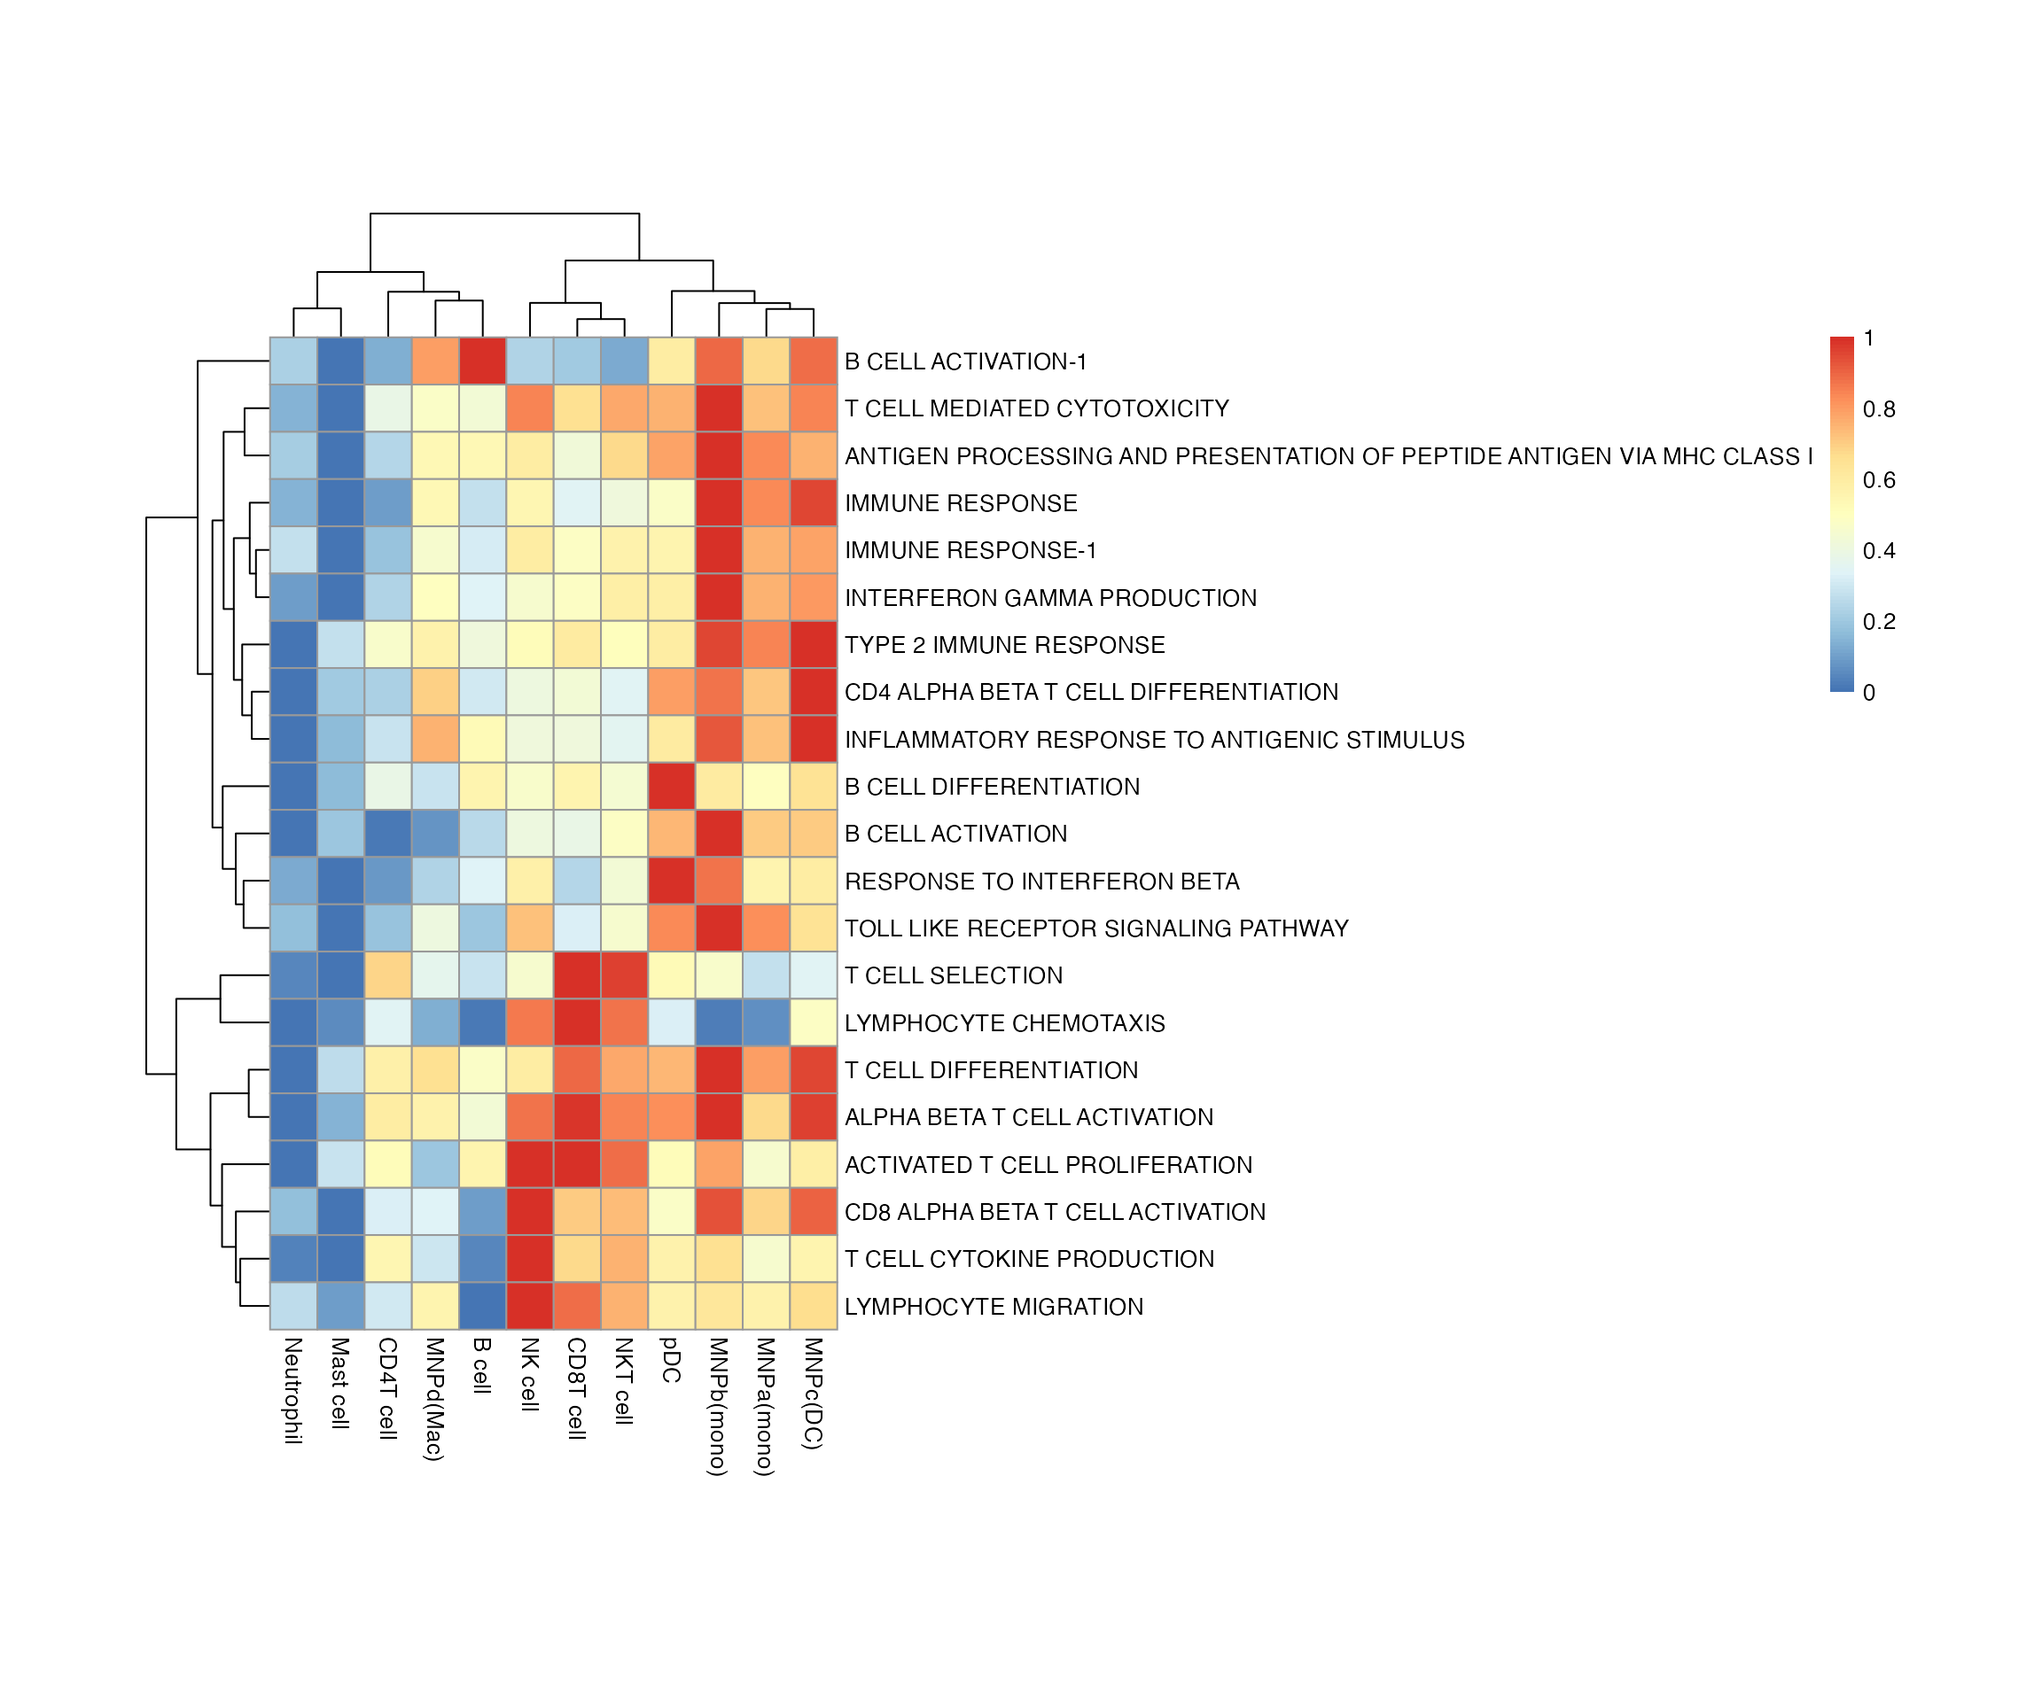
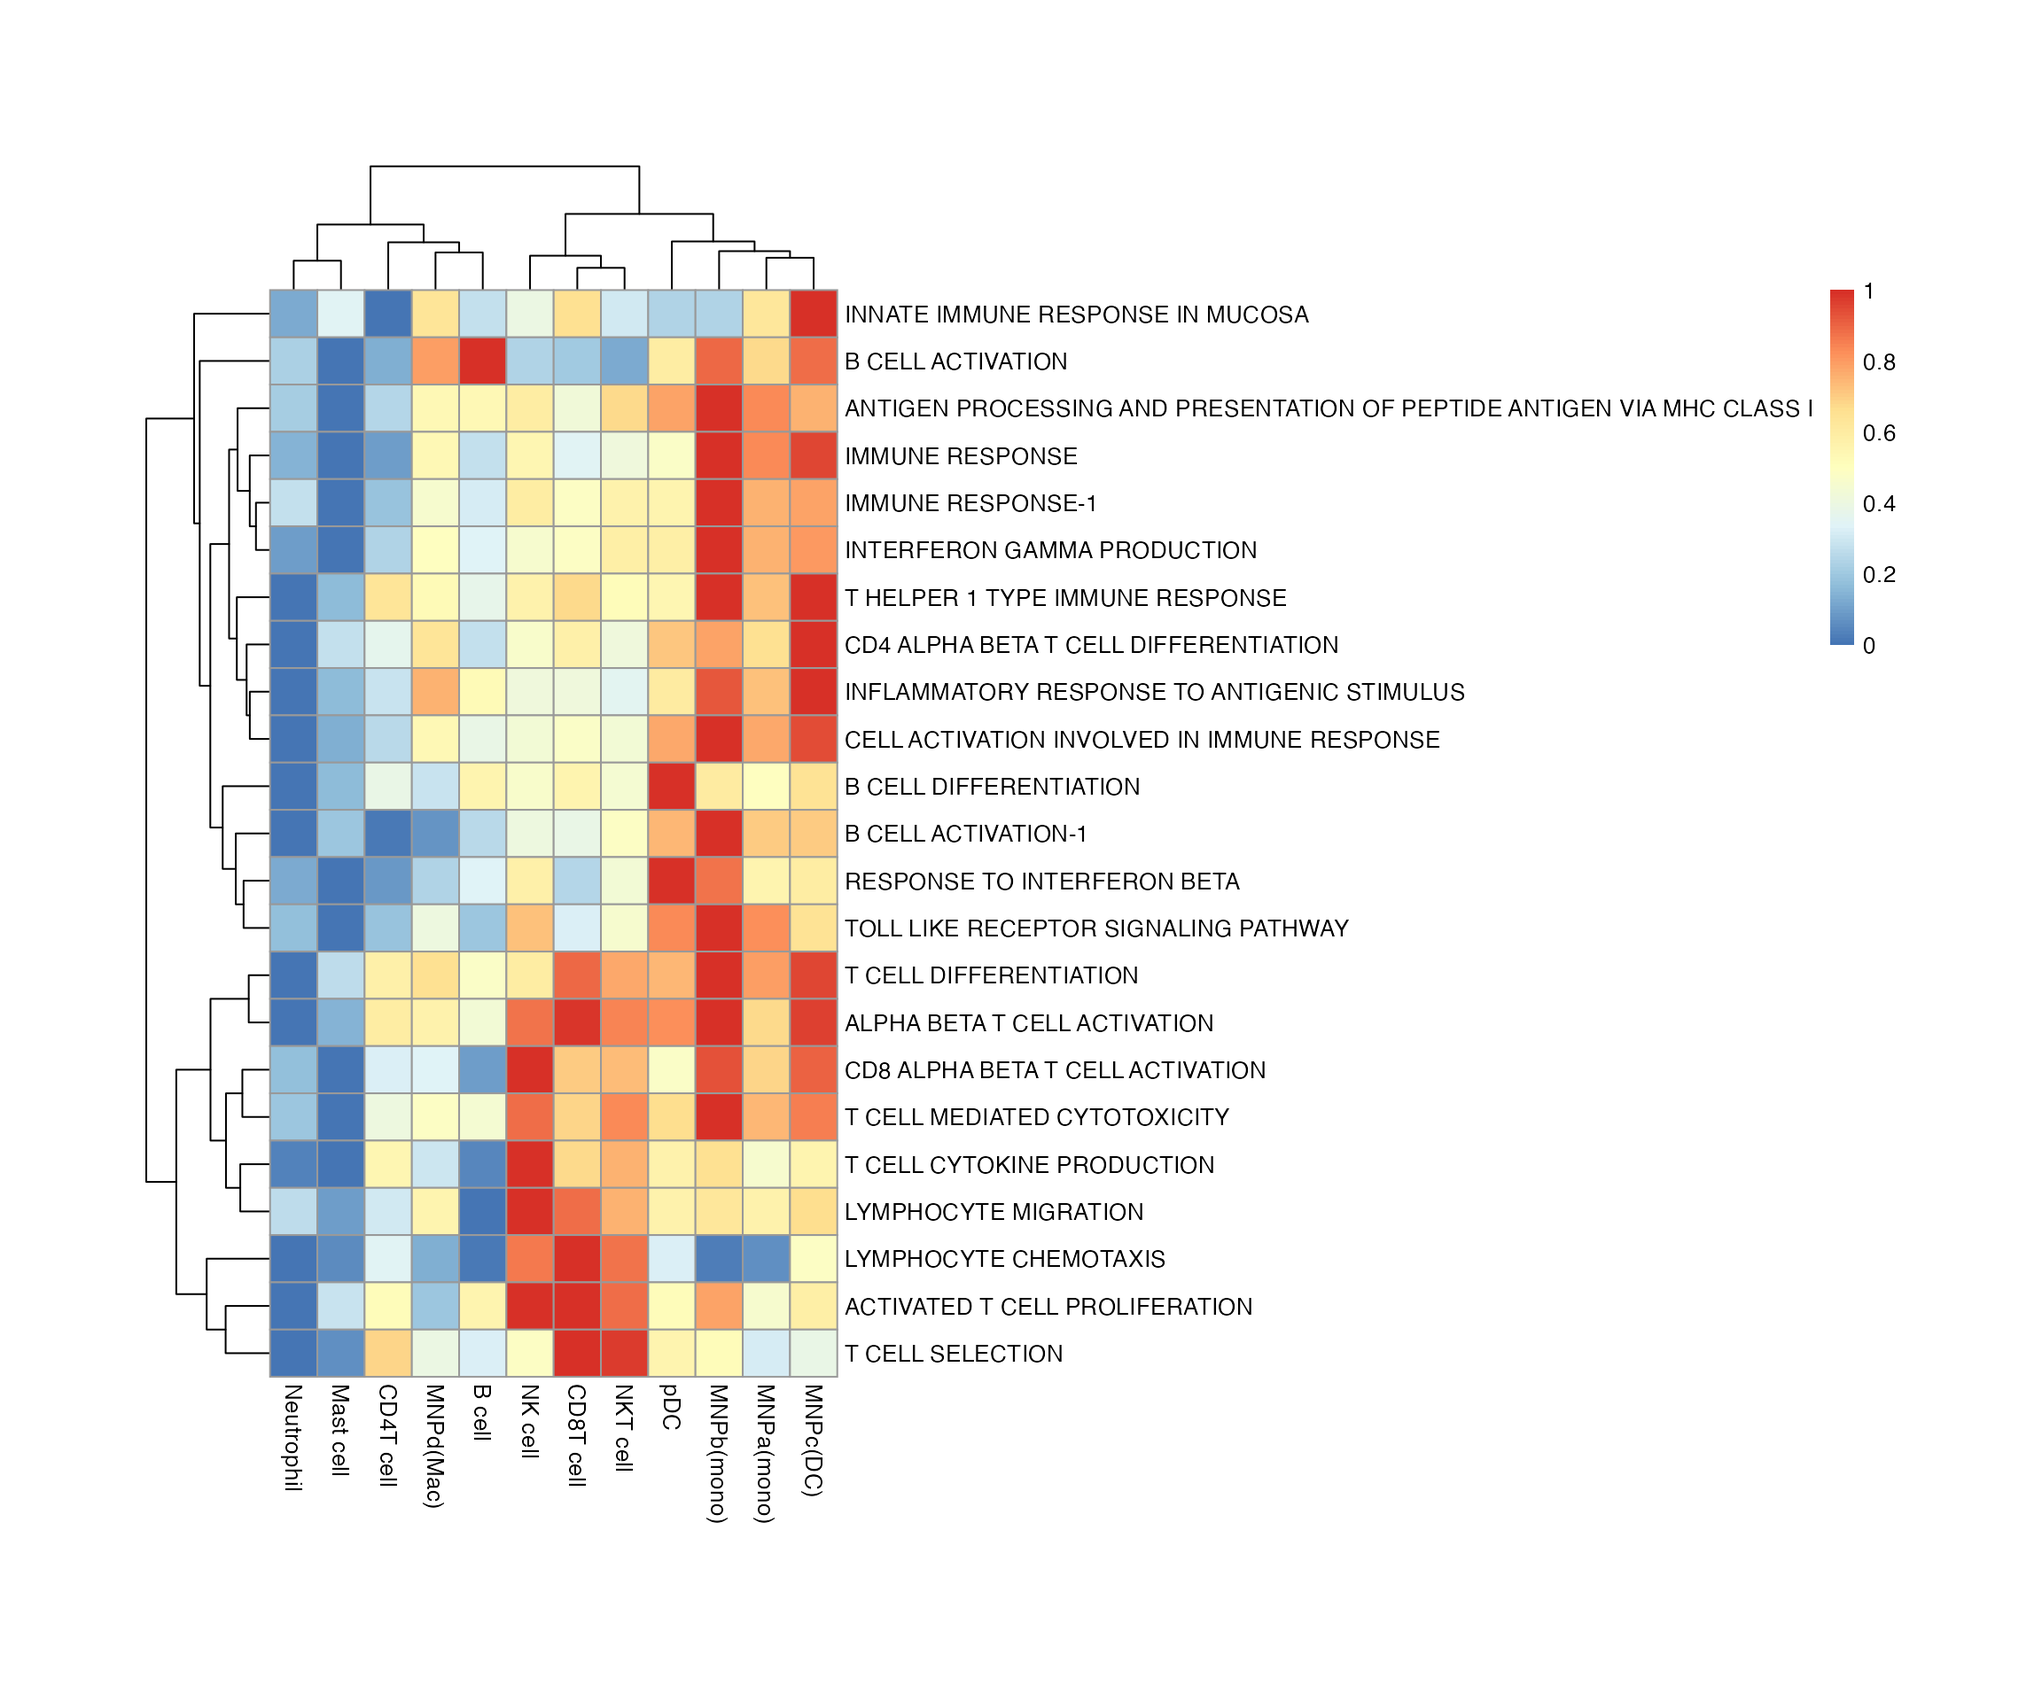
Built site for bowerbird: 0.0.2@e41fcba

diff --git a/articles/bowerbird_vignette.html b/articles/bowerbird_vignette.html
@@ -83,7 +83,7 @@
 
     
     
-<p><a href="https://github.com/clatworthylab/bowerbird/actions/workflows/r.yml"><img src="https://github.com/clatworthylab/bowerbird/actions/workflows/r.yml/badge.svg?branch=master" alt="R"></a> <a href="https://github.com/clatworthylab/bowerbird/actions/workflows/vignette.yml"><img src="https://github.com/clatworthylab/bowerbird/actions/workflows/vignette.yml/badge.svg" alt="vignette"></a></p>
+<p><a href="https://github.com/clatworthylab/bowerbird/actions/workflows/r.yml"><img src="https://github.com/clatworthylab/bowerbird/actions/workflows/r.yml/badge.svg?branch=master" alt="R"></a> <a href="https://github.com/clatworthylab/bowerbird/actions/workflows/vignette.yml"><img src="https://github.com/clatworthylab/bowerbird/actions/workflows/vignette.yml/badge.svg" alt="vignette"></a> <a href="https://codecov.io/gh/clatworthylab/bowerbird"><img src="https://codecov.io/gh/clatworthylab/bowerbird/branch/master/graph/badge.svg?token=NPXokMhnc2" alt="codecov"></a></p>
 <div id="bowerbird" class="section level1">
 <h1 class="hasAnchor">
 <a href="#bowerbird" class="anchor"></a>bowerbird</h1>
@@ -160,12 +160,12 @@
 <span class="va">bwr</span> <span class="op">&lt;-</span> <span class="fu"><a href="../reference/snn_graph.html">snn_graph</a></span><span class="op">(</span><span class="va">bwr</span><span class="op">)</span>
 <span class="va">bwr</span> <span class="op">&lt;-</span> <span class="fu"><a href="../reference/find_clusters.html">find_clusters</a></span><span class="op">(</span><span class="va">bwr</span><span class="op">)</span>
 <span class="va">bwr</span> <span class="op">&lt;-</span> <span class="fu">summarize_clusters</span><span class="op">(</span><span class="va">bwr</span><span class="op">)</span>
-<span class="co">#&gt; Downloading udpipe model from https://raw.githubusercontent.com/jwijffels/udpipe.models.ud.2.5/master/inst/udpipe-ud-2.5-191206/english-ewt-ud-2.5-191206.udpipe to /var/folders/24/8k48jl6d249_n_qfxwsl6xvm0000gn/T//Rtmpn5hu8z/english-ewt-ud-2.5-191206.udpipe</span>
+<span class="co">#&gt; Downloading udpipe model from https://raw.githubusercontent.com/jwijffels/udpipe.models.ud.2.5/master/inst/udpipe-ud-2.5-191206/english-ewt-ud-2.5-191206.udpipe to /var/folders/24/8k48jl6d249_n_qfxwsl6xvm0000gn/T//RtmpyFfT7D/english-ewt-ud-2.5-191206.udpipe</span>
 <span class="co">#&gt;  - This model has been trained on version 2.5 of data from https://universaldependencies.org</span>
 <span class="co">#&gt;  - The model is distributed under the CC-BY-SA-NC license: https://creativecommons.org/licenses/by-nc-sa/4.0</span>
 <span class="co">#&gt;  - Visit https://github.com/jwijffels/udpipe.models.ud.2.5 for model license details.</span>
 <span class="co">#&gt;  - For a list of all models and their licenses (most models you can download with this package have either a CC-BY-SA or a CC-BY-SA-NC license) read the documentation at ?udpipe_download_model. For building your own models: visit the documentation by typing vignette('udpipe-train', package = 'udpipe')</span>
-<span class="co">#&gt; Downloading finished, model stored at '/var/folders/24/8k48jl6d249_n_qfxwsl6xvm0000gn/T//Rtmpn5hu8z/english-ewt-ud-2.5-191206.udpipe'</span></code></pre></div>
+<span class="co">#&gt; Downloading finished, model stored at '/var/folders/24/8k48jl6d249_n_qfxwsl6xvm0000gn/T//RtmpyFfT7D/english-ewt-ud-2.5-191206.udpipe'</span></code></pre></div>
 <p>Or extracting from <code>msigdbr</code>.</p>
 <div class="sourceCode" id="cb7"><pre class="downlit sourceCode r">
 <code class="sourceCode R"><span class="kw"><a href="https://rdrr.io/r/base/library.html">library</a></span><span class="op">(</span><span class="va"><a href="https://igordot.github.io/msigdbr/">msigdbr</a></span><span class="op">)</span>
@@ -181,52 +181,54 @@
 <span class="va">bwr</span> <span class="op">&lt;-</span> <span class="fu"><a href="../reference/snn_graph.html">snn_graph</a></span><span class="op">(</span><span class="va">bwr</span><span class="op">)</span>
 <span class="va">bwr</span> <span class="op">&lt;-</span> <span class="fu"><a href="../reference/find_clusters.html">find_clusters</a></span><span class="op">(</span><span class="va">bwr</span><span class="op">)</span>
 <span class="va">bwr</span> <span class="op">&lt;-</span> <span class="fu">summarize_clusters</span><span class="op">(</span><span class="va">bwr</span><span class="op">)</span>
-<span class="co">#&gt; Downloading udpipe model from https://raw.githubusercontent.com/jwijffels/udpipe.models.ud.2.5/master/inst/udpipe-ud-2.5-191206/english-ewt-ud-2.5-191206.udpipe to /var/folders/24/8k48jl6d249_n_qfxwsl6xvm0000gn/T//Rtmpn5hu8z/english-ewt-ud-2.5-191206.udpipe</span>
+<span class="co">#&gt; Downloading udpipe model from https://raw.githubusercontent.com/jwijffels/udpipe.models.ud.2.5/master/inst/udpipe-ud-2.5-191206/english-ewt-ud-2.5-191206.udpipe to /var/folders/24/8k48jl6d249_n_qfxwsl6xvm0000gn/T//RtmpyFfT7D/english-ewt-ud-2.5-191206.udpipe</span>
 <span class="co">#&gt;  - This model has been trained on version 2.5 of data from https://universaldependencies.org</span>
 <span class="co">#&gt;  - The model is distributed under the CC-BY-SA-NC license: https://creativecommons.org/licenses/by-nc-sa/4.0</span>
 <span class="co">#&gt;  - Visit https://github.com/jwijffels/udpipe.models.ud.2.5 for model license details.</span>
 <span class="co">#&gt;  - For a list of all models and their licenses (most models you can download with this package have either a CC-BY-SA or a CC-BY-SA-NC license) read the documentation at ?udpipe_download_model. For building your own models: visit the documentation by typing vignette('udpipe-train', package = 'udpipe')</span>
-<span class="co">#&gt; Downloading finished, model stored at '/var/folders/24/8k48jl6d249_n_qfxwsl6xvm0000gn/T//Rtmpn5hu8z/english-ewt-ud-2.5-191206.udpipe'</span></code></pre></div>
+<span class="co">#&gt; Downloading finished, model stored at '/var/folders/24/8k48jl6d249_n_qfxwsl6xvm0000gn/T//RtmpyFfT7D/english-ewt-ud-2.5-191206.udpipe'</span></code></pre></div>
 <p>So what has actually happened? Well, basically <code>bowerbird</code> has learnt which gene sets share more genes with each other, clustered them together and learnt a new summary term.</p>
 <div class="sourceCode" id="cb8"><pre class="downlit sourceCode r">
 <code class="sourceCode R"><span class="va">bwr</span>
 <span class="co">#&gt; BOWER class</span>
 <span class="co">#&gt; number of genesets:  265 </span>
 <span class="co">#&gt; genesets kNN Graph: </span>
-<span class="co">#&gt; IGRAPH c77c135 UNW- 265 843 -- </span>
+<span class="co">#&gt; IGRAPH 59fd3b3 UNW- 265 843 -- </span>
 <span class="co">#&gt; + attr: name (v/c), cluster (v/n), geneset_size (v/n), terms (v/c),</span>
 <span class="co">#&gt; | labels (v/c), weight (e/n)</span>
-<span class="co">#&gt; + edges from c77c135 (vertex names):</span>
+<span class="co">#&gt; + edges from 59fd3b3 (vertex names):</span>
 <span class="co">#&gt; [1] GOBP_ACTIVATED_T_CELL_PROLIFERATION--GOBP_CD8_POSITIVE_ALPHA_BETA_T_CELL_DIFFERENTIATION          </span>
 <span class="co">#&gt; [2] GOBP_ACTIVATED_T_CELL_PROLIFERATION--GOBP_NEGATIVE_REGULATION_OF_ACTIVATED_T_CELL_PROLIFERATION   </span>
 <span class="co">#&gt; [3] GOBP_ACTIVATED_T_CELL_PROLIFERATION--GOBP_NEGATIVE_REGULATION_OF_LYMPHOCYTE_DIFFERENTIATION       </span>
 <span class="co">#&gt; [4] GOBP_ACTIVATED_T_CELL_PROLIFERATION--GOBP_NEGATIVE_REGULATION_OF_T_CELL_RECEPTOR_SIGNALING_PATHWAY</span>
 <span class="co">#&gt; [5] GOBP_ACTIVATION_OF_IMMUNE_RESPONSE --GOBP_ACTIVATION_OF_INNATE_IMMUNE_RESPONSE                    </span>
 <span class="co">#&gt; + ... omitted several edges</span>
-<span class="co">#&gt; number of geneset clusters:  21 </span>
+<span class="co">#&gt; number of geneset clusters:  23 </span>
 <span class="co">#&gt; Core genes:</span>
 <span class="co">#&gt;  First six genes shown</span>
 <span class="co">#&gt;   IMMUNE RESPONSE-1 : AIM2 BCL10 BTRC CARD11 CARD9 CD209 ...</span>
-<span class="co">#&gt;   CD4 ALPHA BETA T CELL DIFFERENTIATION : ANXA1 ATP7A BATF BCL3 BCL6 CBFB ...</span>
-<span class="co">#&gt;   TYPE 2 IMMUNE RESPONSE : IL4 PLCL2 TLR4 IL18 IL18R1 IL4R ...</span>
 <span class="co">#&gt;   IMMUNE RESPONSE : CLNK HLA-E HLA-F IFNA2 IFNB1 IL18 ...</span>
-<span class="co">#&gt;   T CELL MEDIATED CYTOTOXICITY : HLA-A HLA-B HLA-C HLA-E HLA-F HLA-G ...</span>
-<span class="co">#&gt;   B CELL ACTIVATION : ADA BAX BCL6 BLK BTK CD74 ...</span>
+<span class="co">#&gt;   B CELL ACTIVATION-1 : ADA BAX BCL6 BLK BTK CD74 ...</span>
 <span class="co">#&gt;   RESPONSE TO INTERFERON BETA : BCL2L11 HIF1A MEF2C ADA SOS1 SOS2 ...</span>
 <span class="co">#&gt;   CD8 ALPHA BETA T CELL ACTIVATION : HLA-E GATA3 ADCYAP1 BTK C3 CCR7 ...</span>
+<span class="co">#&gt;   T CELL MEDIATED CYTOTOXICITY : HLA-A HLA-B HLA-C HLA-E HLA-F HLA-G ...</span>
+<span class="co">#&gt;   CD4 ALPHA BETA T CELL DIFFERENTIATION : ANXA1 ATP7A BATF BCL3 BCL6 CBFB ...</span>
 <span class="co">#&gt;   T CELL DIFFERENTIATION : FCGR2B FGL2 HLA-DOA LILRB2 THBS1 BMP4 ...</span>
+<span class="co">#&gt;   T HELPER 1 TYPE IMMUNE RESPONSE : BATF FOXP3 IL6 TBX21 BCL6 IL2 ...</span>
 <span class="co">#&gt;   INTERFERON GAMMA PRODUCTION : ABCB9 ACE ACTR10 ACTR1A ACTR1B AP1B1 ...</span>
 <span class="co">#&gt;   TOLL LIKE RECEPTOR SIGNALING PATHWAY : CACTIN PTPRS TICAM1 TLR3 TLR4 TLR9 ...</span>
 <span class="co">#&gt;   T CELL CYTOKINE PRODUCTION : KLRC1 LILRB1 NOD2 PTPRC EGR3 LEF1 ...</span>
 <span class="co">#&gt;   B CELL DIFFERENTIATION : IL10 TLR9 SYK ADA BCL3 C17orf99 ...</span>
 <span class="co">#&gt;   ACTIVATED T CELL PROLIFERATION : LILRB4 CD24 CD274 FYN HHLA2 ICOSLG ...</span>
-<span class="co">#&gt;   T CELL SELECTION : TOX BCL2 BATF CTSL FOXP3 IL12B ...</span>
+<span class="co">#&gt;   B CELL ACTIVATION : ADA ADAM17 BATF BCL3 BCL6 BTK ...</span>
 <span class="co">#&gt;   LYMPHOCYTE CHEMOTAXIS : CCL2 CCL3 CCL4 CCL5 CCL7 CXCL14 ...</span>
-<span class="co">#&gt;   B CELL ACTIVATION-1 : ADA ADAM17 BATF BCL3 BCL6 BTK ...</span>
 <span class="co">#&gt;   ALPHA BETA T CELL ACTIVATION : AGER ANXA1 ARG2 ATP7A BATF BCL3 ...</span>
 <span class="co">#&gt;   INFLAMMATORY RESPONSE TO ANTIGENIC STIMULUS : BTK C3 CD28 HLA-E LTA NOD2 ...</span>
+<span class="co">#&gt;   T CELL SELECTION : PTPRC TOX RABL3 STAT5B ZBTB1 IL15 ...</span>
+<span class="co">#&gt;   INNATE IMMUNE RESPONSE IN MUCOSA : IL18 IL18R1 IL4 IL13 IL4R SYK ...</span>
 <span class="co">#&gt;   ANTIGEN PROCESSING AND PRESENTATION OF PEPTIDE ANTIGEN VIA MHC CLASS I : ABCB9 AZGP1 B2M ERAP1 ERAP2 HFE ...</span>
-<span class="co">#&gt;   LYMPHOCYTE MIGRATION : ADAM10 ADAM17 ADAM8 AIF1 APP CCL20 ...</span></code></pre></div>
+<span class="co">#&gt;   LYMPHOCYTE MIGRATION : ADAM10 ADAM17 ADAM8 AIF1 APP CCL20 ...</span>
+<span class="co">#&gt;   CELL ACTIVATION INVOLVED IN IMMUNE RESPONSE : ABL1 ADA ANXA1 AP1G1 APBB1IP ATP7A ...</span></code></pre></div>
 <p>We can visualise it with a simple plot</p>
 <div class="sourceCode" id="cb9"><pre class="downlit sourceCode r">
 <code class="sourceCode R"><span class="fu"><a href="../reference/plot_graph.html">plot_graph</a></span><span class="op">(</span><span class="va">bwr</span>, colorby <span class="op">=</span> <span class="st">'cluster'</span>, node.size <span class="op">=</span> <span class="st">'geneset_size'</span><span class="op">)</span></code></pre></div>

diff --git a/reference/summarize_clusters.html b/reference/summarize_clusters.html
@@ -131,7 +131,7 @@
   pattern <span class='op'>=</span> <span class='cn'>NULL</span>,
   sep <span class='op'>=</span> <span class='cn'>NULL</span>,
   ncpus <span class='op'>=</span> <span class='cn'>NULL</span>,
-  clean_graph <span class='op'>=</span> <span class='cn'>TRUE</span>,
+  disconnect_graph <span class='op'>=</span> <span class='cn'>FALSE</span>,
   <span class='va'>...</span>
 <span class='op'>)</span>
 
@@ -142,7 +142,7 @@
   pattern <span class='op'>=</span> <span class='cn'>NULL</span>,
   sep <span class='op'>=</span> <span class='cn'>NULL</span>,
   ncpus <span class='op'>=</span> <span class='cn'>NULL</span>,
-  clean_graph <span class='op'>=</span> <span class='cn'>TRUE</span>,
+  disconnect_graph <span class='op'>=</span> <span class='cn'>FALSE</span>,
   <span class='va'>...</span>
 <span class='op'>)</span></pre>
 
@@ -166,7 +166,7 @@
       <td><p>number of cores used for parallelizing reconstruction.</p></td>
     </tr>
     <tr>
-      <th>clean_graph</th>
+      <th>disconnect_graph</th>
       <td><p>return a graph connecting only nodes in a cluster.</p></td>
     </tr>
     <tr>

diff --git a/index.html b/index.html
@@ -232,7 +232,7 @@
 <ul class="list-unstyled">
 <li><a href="https://github.com/clatworthylab/bowerbird/actions/workflows/r.yml"><img src="https://github.com/clatworthylab/bowerbird/actions/workflows/r.yml/badge.svg?branch=master" alt="R"></a></li>
 <li><a href="https://github.com/clatworthylab/bowerbird/actions/workflows/vignette.yml"><img src="https://github.com/clatworthylab/bowerbird/actions/workflows/vignette.yml/badge.svg" alt="vignette"></a></li>
-<li><a href="https://codecov.io/gh/clatworthylab/bowerbird?branch=master"><img src="https://codecov.io/gh/clatworthylab/bowerbird/branch/master/graph/badge.svg" alt="Codecov test coverage"></a></li>
+<li><a href="https://codecov.io/gh/clatworthylab/bowerbird"><img src="https://codecov.io/gh/clatworthylab/bowerbird/branch/master/graph/badge.svg?token=NPXokMhnc2" alt="codecov"></a></li>
 </ul>
 </div>
 </div>
